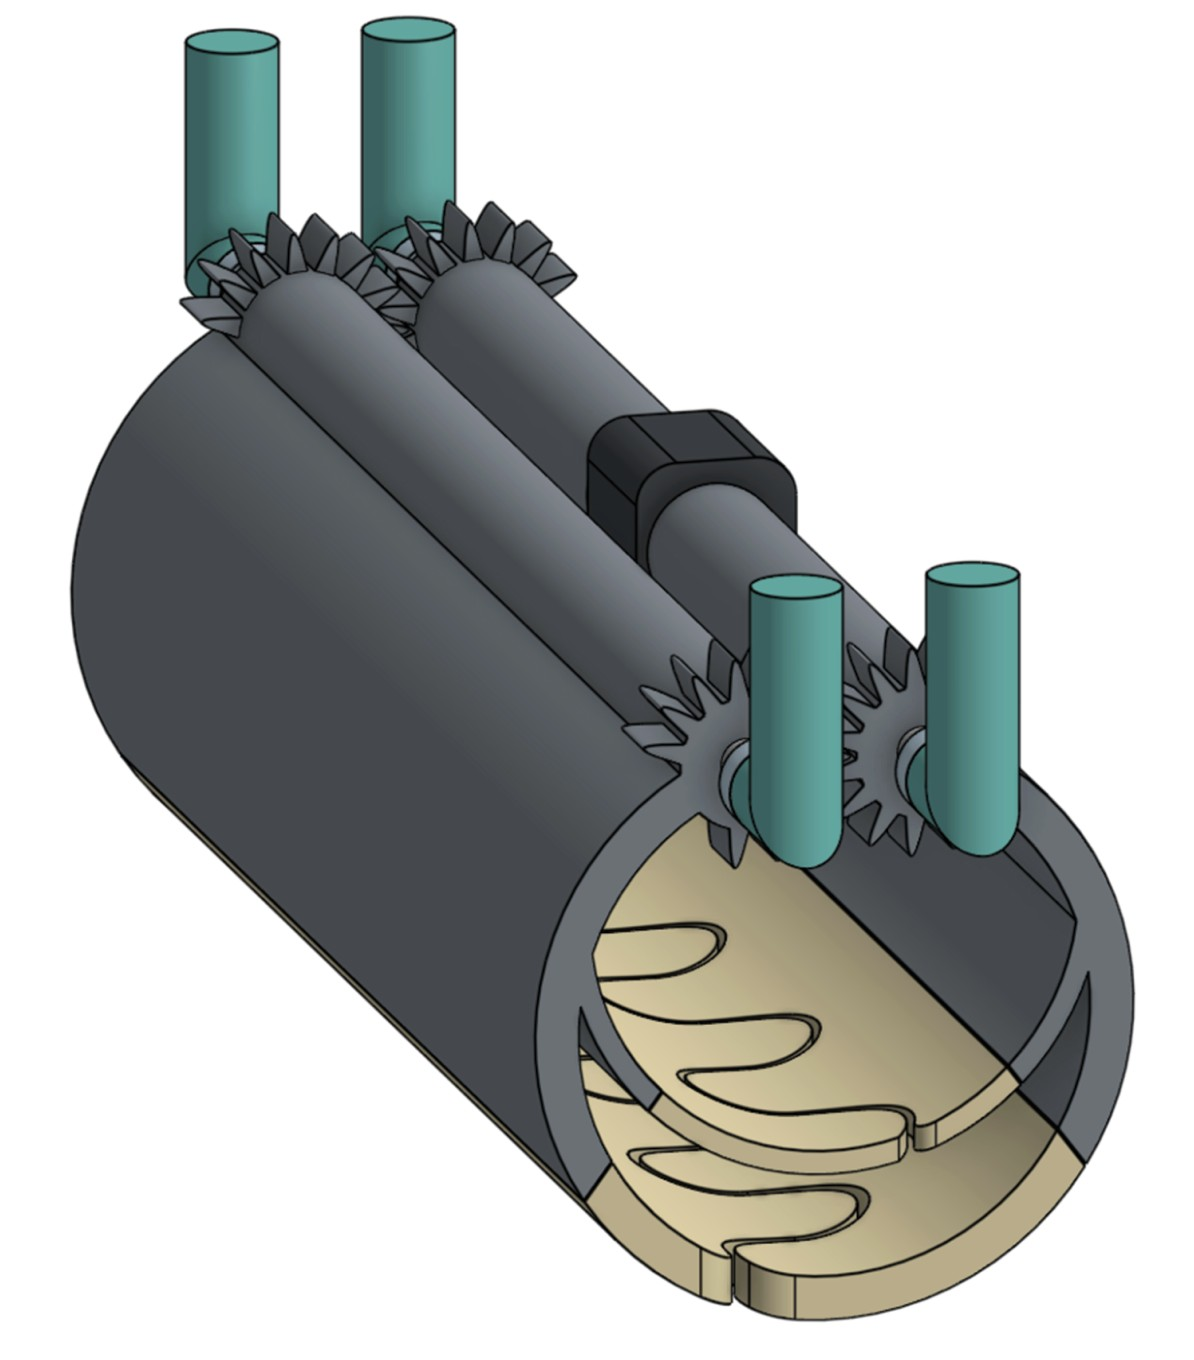
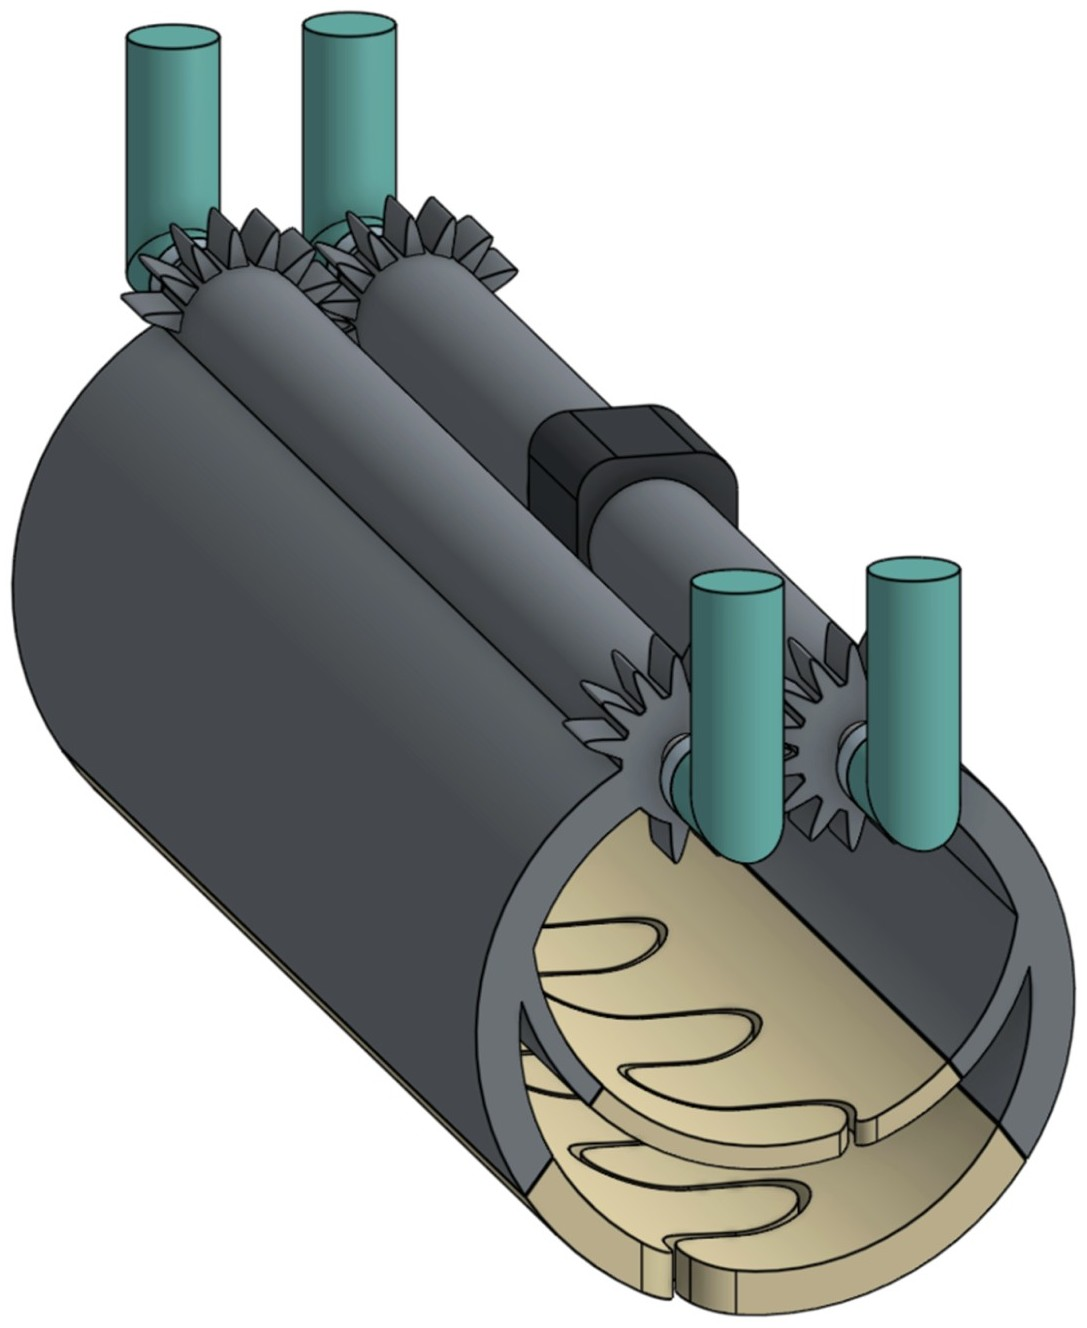
Salico: numbered section bubbles, sketches side by side, tighter CAD grid, more space above render
Claude-Session: https://claude.ai/code/session_01ELhdABDRcghfKyptDK2XUK

diff --git a/js/image-sizes.js b/js/image-sizes.js
@@ -769,20 +769,20 @@ const IMAGE_SIZES = {
 1370
 ],
 "assets/img/work/salico/salico-s05.jpg": [
-1194,
-1360
+1087,
+1328
 ],
 "assets/img/work/salico/salico-s06.jpg": [
-1610,
-1428
+1607,
+1354
 ],
 "assets/img/work/salico/salico-s07.jpg": [
-1740,
-1300
+1691,
+1260
 ],
 "assets/img/work/salico/salico-s08.jpg": [
-1306,
-1266
+1222,
+1143
 ],
 "assets/img/work/salico/salico-s09.jpg": [
 1362,
@@ -1094,10 +1094,10 @@ const IMAGE_PREVIEWS = {
[14 lines of base64/hex data omitted]

diff --git a/css/site.css b/css/site.css
@@ -351,7 +351,7 @@ img { display: block; width: 100%; height: 100%; object-fit: cover; }
   display: grid; grid-template-columns: minmax(0, 2.2fr) minmax(260px, 1fr);
   gap: 40px; align-items: center; margin-top: 8px;
 }
-.diagram-fig { margin: 0; padding: 60px 0 8px; }   /* room for labels above and below the box */
+.diagram-fig { margin: 0; padding: 88px 0 8px; }   /* room for labels above and below the box */
 .diagram-stage { position: relative; aspect-ratio: 1.524; }   /* image is 1.859:1, filling 82% of the height */
 .diagram-img { position: absolute; left: 0; width: 100%; object-fit: contain; background: none !important; }
 .diagram-lines { position: absolute; inset: 0; width: 100%; height: 100%; overflow: visible; pointer-events: none; }
@@ -411,7 +411,7 @@ img { display: block; width: 100%; height: 100%; object-fit: cover; }
 .blk-image figcaption, .ann figcaption { font-size: 14px; font-style: italic; margin-top: 10px; line-height: 1.4; }
 .blk-pair { display: grid; grid-template-columns: 1fr 1.25fr; gap: 48px; align-items: center; }
 .blk-pair > .blk { margin-top: 0; }
-.blk-annotated-grid { display: grid; grid-template-columns: 1fr 1fr; gap: 40px 56px; align-items: center; }
+.blk-annotated-grid { display: grid; grid-template-columns: 1fr 1fr; gap: 16px 28px; align-items: center; max-width: 1150px; }
 .blk-videos { display: flex; gap: var(--gap); }
 .blk-videos video { min-width: 0; width: 100%; height: auto; display: block; background: #eee; }
 
@@ -419,6 +419,29 @@ img { display: block; width: 100%; height: 100%; object-fit: cover; }
 .mr-row { display: flex; gap: var(--gap); }
 .mr-cell { min-width: 0; overflow: hidden; }
 .mr-cell img, .mr-cell video { width: 100%; height: 100%; object-fit: cover; display: block; }
+
+.blk-split { display: flex; gap: 14px; align-items: flex-start; max-width: 1300px; }
+.split-col { display: flex; flex-direction: column; gap: 14px; min-width: 0; }
+.split-col img { width: 100%; height: auto; display: block; }
+
+/* Numbered sections continuing the diagram's bubbles (numberSections) */
+#p-sections.numbered { position: relative; }
+#p-sections.numbered > .project-section { position: relative; padding-left: 46px; counter-increment: sec; }
+#p-sections.numbered > .project-section > h2::before {
+  content: counter(sec); position: absolute; left: 0; top: -4px;
+  width: 26px; height: 30px; border: 1px solid #333; border-radius: 13px; background: #fff;
+  font-size: 12px; display: flex; align-items: center; justify-content: center; z-index: 1;
+}
+#p-sections.numbered > .project-section > h2 { position: static; }
+/* line from each bubble down to the next one */
+#p-sections.numbered > .project-section::before {
+  content: ""; position: absolute; left: 13px; top: -72px; height: 72px; border-left: 1px solid #333;
+}
+#p-sections.numbered > .diagram + .project-section::before { top: -40px; height: 40px; }
+#p-sections.numbered > .project-section::after {
+  content: ""; position: absolute; left: 13px; top: 26px; bottom: 0; border-left: 1px solid #333;
+}
+#p-sections.numbered > .project-section:last-child::after { display: none; }
 
 /* Annotated image */
 .ann-fig { position: relative; }
@@ -436,6 +459,9 @@ img { display: block; width: 100%; height: 100%; object-fit: cover; }
 
 @media (max-width: 900px) {
   .blk-pair, .blk-annotated-grid { grid-template-columns: 1fr; gap: 32px; }
+  .blk-split { flex-direction: column; }
+  .split-col { flex: none !important; width: 100%; }
+  #p-sections.numbered > .project-section { padding-left: 38px; }
   .blk-videos { flex-direction: column; }
   .blk-videos video { flex: none !important; }
   .blk-text p, .blk-list li { font-size: 15px; }

diff --git a/js/projects.js b/js/projects.js
@@ -303,6 +303,7 @@ const PROJECTS = [
       ]
     },
     // Process story under the diagram. Each section is a heading plus blocks, in order.
+    numberSections: 4,   // section headings continue the numbered bubbles from the diagram notes
     sections: [
       {
         label: "Brainstorming & Sketching",
@@ -312,29 +313,29 @@ const PROJECTS = [
             "We cannot cut or bruise the sea asparagus.",
             "We do not have any sea asparagus to test with where we live (Toronto, Canada). A large part of the initial design is guessing until we get to Hawaii for testing."
           ] },
-          { type: "stack", maxWidth: 1000, images: ["assets/img/work/salico/salico-s01.jpg", "assets/img/work/salico/salico-s02.jpg", "assets/img/work/salico/salico-s03.jpg"] }
+          { type: "split", columns: [["assets/img/work/salico/salico-s01.jpg", "assets/img/work/salico/salico-s02.jpg"], ["assets/img/work/salico/salico-s03.jpg"]] }
         ]
       },
       {
         label: "CAD of the Top Options",
         blocks: [
           { type: "annotated-grid", items: [
-            { image: "assets/img/work/salico/salico-s05.jpg", pad: { l: "34%" }, labels: [
-              { text: "Gears", x: 30, y: 18, side: "left" },
-              { text: "Motor", x: 55, y: 31, side: "left" },
-              { text: "Compliant grabber material", x: 58, y: 80, side: "left" }
+            { image: "assets/img/work/salico/salico-s05.jpg", pad: { l: "30%" }, labels: [
+              { text: "Gears", x: 27.5, y: 18.1, side: "left" },
+              { text: "Motor", x: 55.0, y: 31.4, side: "left" },
+              { text: "Compliant grabber material", x: 58.3, y: 81.6, side: "left" }
             ] },
-            { image: "assets/img/work/salico/salico-s06.jpg", pad: { l: "30%" }, labels: [
-              { text: "Pistons", x: 25, y: 40, side: "left" },
-              { text: "Double brushes", x: 66, y: 56, side: "left" },
-              { text: "Double rollers", x: 57, y: 72, side: "left" }
+            { image: "assets/img/work/salico/salico-s06.jpg", pad: { l: "22%" }, labels: [
+              { text: "Pistons", x: 24.9, y: 37.8, side: "left" },
+              { text: "Double brushes", x: 65.9, y: 54.6, side: "left" },
+              { text: "Double rollers", x: 56.9, y: 71.5, side: "left" }
             ] },
-            { image: "assets/img/work/salico/salico-s07.jpg", pad: { l: "22%", r: "22%" }, labels: [
-              { text: "Shield", x: 25, y: 30, side: "left" },
-              { text: "Pinching and lifting rollers", x: 38, y: 62, side: "left", at: 56 },
-              { text: "Conveyor", x: 22, y: 73, side: "left", at: 76 },
-              { text: "Cargo", x: 18, y: 88, side: "left" },
-              { text: "Temporary cargo", x: 80, y: 72, side: "right" }
+            { image: "assets/img/work/salico/salico-s07.jpg", pad: { l: "24%", r: "18%" }, labels: [
+              { text: "Shield", x: 24.5, y: 27.8, side: "left" },
+              { text: "Pinching and lifting rollers", x: 37.9, y: 60.8, side: "left", at: 56 },
+              { text: "Conveyor", x: 21.4, y: 72.1, side: "left", at: 76 },
+              { text: "Cargo", x: 17.3, y: 87.6, side: "left" },
+              { text: "Temporary cargo", x: 81.1, y: 71.1, side: "right" }
             ] },
             { image: "assets/img/work/salico/salico-s08.jpg", highlight: "To build", labels: [] }
           ] }

diff --git a/js/project.js b/js/project.js
@@ -171,6 +171,10 @@ if (!p) {
 
   // Extra labelled sections (e.g. "Iteration 1"), each with its own photo grid
   const secBox = document.getElementById("p-sections");
+  if (p.numberSections) {
+    secBox.classList.add("numbered");
+    secBox.style.counterReset = `sec ${p.numberSections - 1}`;
+  }
   (p.sections || []).forEach((sec) => {
     const wrap = document.createElement("section");
     wrap.className = "project-section";
@@ -353,6 +357,16 @@ function renderBlock(b, title) {
     const ol = document.createElement("ol");
     b.items.forEach((t) => { const li = document.createElement("li"); li.innerHTML = richText(t); ol.appendChild(li); });
     el.appendChild(ol);
+  } else if (b.type === "split") {
+    // Columns of stacked images, widths chosen so every column ends at the same height
+    b.columns.forEach((col) => {
+      const c = document.createElement("div");
+      c.className = "split-col";
+      const r = col.reduce((a, src) => { const d = SIZES[src] || [4, 3]; return a + d[1] / d[0]; }, 0);
+      c.style.flex = `${(1 / r).toFixed(4)} 1 0`;
+      col.forEach((src) => c.appendChild(media(src, title + " sketch", "(max-width: 900px) 100vw, 50vw")));
+      el.appendChild(c);
+    });
   } else if (b.type === "stack") {
     b.images.forEach((src) => el.appendChild(media(src, title + " sketch", "(max-width: 900px) 100vw, 1000px")));
   } else if (b.type === "image") {
